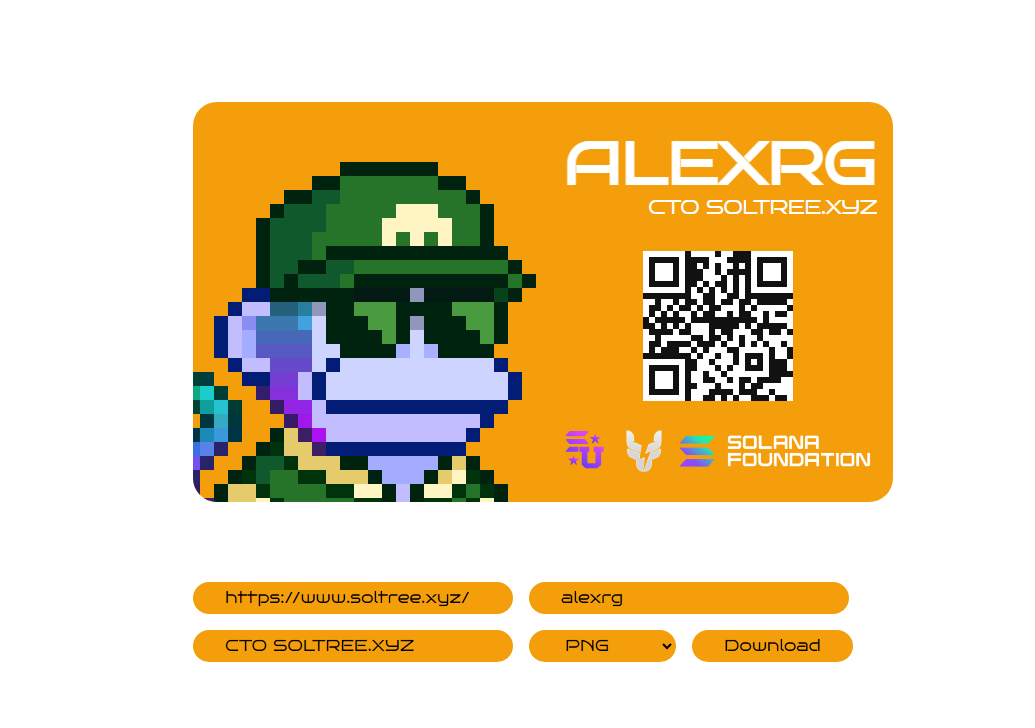
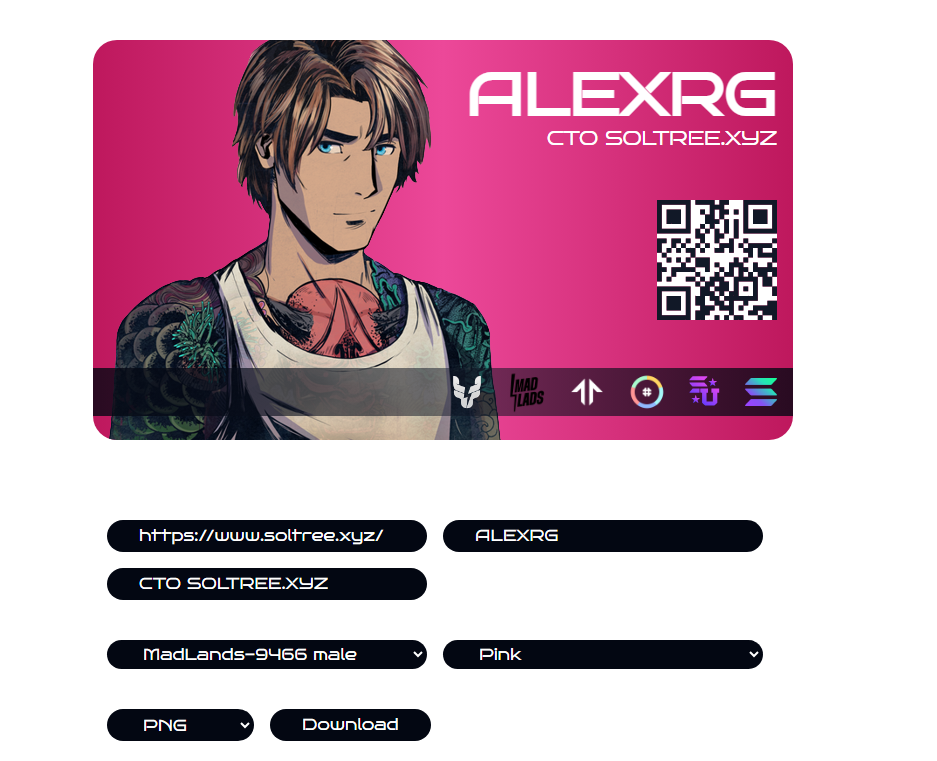
UI updates

diff --git a/src/app/components/QRCode.tsx b/src/app/components/QRCode.tsx
@@ -1,11 +1,10 @@
 "use client";
 import React, { useRef, useState } from "react";
-// import QRCodeStyling from "qr-code-styling";
 import domtoimage from "dom-to-image";
 import QRCode from "react-qr-code";
 
-const MAX_NAME_LENGTH = 10;
-const MAX_INFO_LENGTH = 30;
+const MAX_NAME_LENGTH = 20;
+const MAX_INFO_LENGTH = 40;
 
 const downloadFile = (url: string, filename: string) => {
   const anchorElement = document.createElement("a");
@@ -14,13 +13,21 @@ const downloadFile = (url: string, filename: string) => {
   anchorElement.click();
 };
 
-const App: React.FC = () => {
+function QrCode() {
   const [url, setUrl] = useState("https://www.soltree.xyz/");
   const [fileExt, setFileExt] = useState("png");
-  const [name, setName] = useState("alexrg");
+  const [name, setName] = useState("ALEXRG");
   const [info, setInfo] = useState("CTO SOLTREE.XYZ");
+  const [image, setImage] = useState("ML9466");
+  const [color, setColor] = useState("pink");
   const ref = useRef<HTMLDivElement>(null);
 
+  const onImageChange = (event: { target: { value: string } }) => {
+    setImage(event.target.value);
+  };
+  const onColorChange = (event: { target: { value: string } }) => {
+    setColor(event.target.value);
+  };
   const onExtensionChange = (event: { target: { value: string } }) => {
     setFileExt(event.target.value);
   };
@@ -50,64 +57,139 @@ const App: React.FC = () => {
         });
     }
   };
+  let className = "";
 
+  switch (color) {
+    case "sky":
+      className = "bg-gradient-to-r from-sky-700 via-sky-500 to-sky-700";
+      break;
+    case "cyan":
+      className = "bg-gradient-to-r from-cyan-700 via-cyan-500 to-cyan-700";
+      break;
+    case "pink":
+      className = "bg-gradient-to-r from-pink-700 via-pink-500 to-pink-700";
+      break;
+    case "rose":
+      className = "bg-gradient-to-r from-rose-700 via-rose-500 to-rose-700";
+      break;
+    case "amber":
+      className = "bg-gradient-to-r from-amber-700 via-amber-500 to-amber-700";
+      break;
+    case "yellow":
+      className =
+        "bg-gradient-to-r from-yellow-700 via-yellow-500 to-yellow-700";
+      break;
+    case "lime":
+      className = "bg-gradient-to-r from-lime-700 via-lime-500 to-lime-700";
+      break;
+    case "gray":
+      className = "bg-gradient-to-r from-gray-700 via-gray-500 to-gray-700";
+      break;
+    case "black":
+      className = "bg-gradient-to-r from-gray-950 via-gray-900 to-gray-950";
+      break;
+    // Add more cases for additional colors
+    default:
+      className = "";
+      break;
+  }
   return (
-    <div>
+    <div className="w-full justify-center flex flex-col items-center">
       {/* Card */}
       <div
-        className="bg-amber-500 flex w-[700px] items-end uppercase justify-around rounded-3xl h-[400px] "
+        className={`${className} w-[700px] uppercase rounded-3xl h-[400px] flex items-start justify-start relative group overflow-hidden`}
         ref={ref}
       >
-        <div className="w-1/2 h-full bg-[url(/3.png)] bg-center rounded-l-3xl"></div>
-        <div className="flex flex-col justify-around h-full p-4 text-end w-1/2 items-end">
-          <div className="w-full flex flex-col">
-            <div className="overflow-hidden">
-              <span className="text-6xl font-[600]">{name}</span>
-            </div>
-            <span className="tracking-tight text-xl">{info}</span>
+        <div className={`w-2/3 h-full absolute flex justify-center items-end`}>
+          <img src={`/profile/${image}.png`} className=" " />
+        </div>
+        <div className="flex relative  flex-col w-full justify-around h-full text-end items-end">
+          <div className="ml-auto w-2/3 flex flex-col px-4 tracking-tight">
+            <span className="text-6xl font-[600]">{name}</span>
+            <span className="text-xl">{info}</span>
           </div>
-          <div className="mx-auto">
-            <QRCode
-              value={url}
-              size={150}
-              bgColor="#111111"
-              fgColor="#FFFFFF"
-              level="L"
-            />
-          </div>
-          <div className="w-full flex items-center justify-center h-10">
-            <img src="logo_su.svg" className="h-14" />
-            <img src="logoSmoll.png" className="h-14 mr-2" />
-            <img src="SFLogo.png" className="h-8" />
+          <QRCode
+            value={url}
+            size={120}
+            bgColor="#ffffff"
+            fgColor="rgb(17 24 39)"
+            level="L"
+            className="mx-4"
+          />
+
+          <div className="w-full flex gap-4 items-center justify-end h-12 px-4 py-0.5 bg-gradient-to-r from-gray-950/80 via-gray-900/50 to-gray-950/80">
+            <img src="logoSmoll.png" className="h-full" />
+            <img src="MD.png" className="h-full" />
+            <img src="tenzon.png" className="h-full" />
+            <img src="LILYlogo.png" className="h-full" />
+            <img src="logo_su.svg" className=" h-full" />
+            <img src="SMark.png" className="h-7" />
           </div>
         </div>
-      </div>
-
-      <div className="flex justify-start gap-4 mt-20 w-full max-w-3xl flex-wrap">
+      </div>{" "}
+      <div className="flex justify-start gap-4 max-w-2xl mt-20 w-full  flex-wrap">
         <input
           type="text"
           value={url}
           onChange={handleLinkChange}
-          className="bg-amber-500 text-black rounded-full px-8 w-fit py-1"
+          className="bg-gray-950 text-white rounded-full px-8 w-fit py-1"
         />
         <input
           type="text"
           value={name}
           onChange={handleNameChange}
           maxLength={MAX_NAME_LENGTH}
-          className="bg-amber-500 text-black rounded-full px-8 w-fit py-1"
+          className="bg-gray-950 text-white rounded-full px-8 w-fit py-1"
         />
         <input
           type="text"
           value={info}
           onChange={handleInfoChange}
           maxLength={MAX_INFO_LENGTH}
-          className="bg-amber-500 text-black rounded-full px-8 w-fit py-1"
+          className="bg-gray-950 text-white rounded-full px-8 w-fit py-1"
         />
+      </div>
+      <div className="flex justify-start gap-4 max-w-2xl my-10 w-full  flex-wrap">
+        {" "}
+        <select
+          value={image}
+          onChange={onImageChange}
+          className="bg-gray-950 text-white rounded-full px-8 w-80 py-1"
+        >
+          <option value="ML2138">MadLands-2138 female</option>{" "}
+          <option value="ML2450">MadLands-2450 female</option>
+          <option value="ML3081">MadLands-3081 female</option>
+          <option value="ML6438">MadLands-6438 female</option>
+          <option value="ML2385">MadLands-2385 male</option>
+          <option value="ML7021">MadLands-7021 male</option>
+          <option value="ML7607">MadLands-7607 male</option>
+          <option value="ML9466">MadLands-9466 male</option>
+          <option value="LILY4097">Lily-4097 female</option>
+          <option value="LILY5884">Lily-5884 male</option>
+        </select>
+        <select
+          value={color}
+          onChange={onColorChange}
+          className={`bg-gray-950 text-white rounded-full px-8 w-80 py-1`}
+        >
+          {" "}
+          <option value="pink">Pink</option>
+          <option value="amber">Orange</option>
+          <option value="yellow">Yellow</option>
+          <option value="lime">Lime</option>
+          <option value="rose">Rose</option>
+          <option value="sky">Sky</option>
+          <option value="cyan">Cyan</option>
+          <option value="gray">Gray</option>
+          <option value="black">Black</option>
+        </select>
+      </div>
+      <div className="flex justify-start gap-4 max-w-2xl w-full flex-wrap">
+        {" "}
         <select
           value={fileExt}
           onChange={onExtensionChange}
-          className="bg-amber-500 text-black rounded-full px-8 w-fit py-1 flex justify-center"
+          className="bg-gray-950 text-white rounded-full px-8 w-fit py-1 flex justify-center"
         >
           <option value="png">PNG</option>
           <option value="jpeg">JPEG</option>
@@ -115,13 +197,13 @@ const App: React.FC = () => {
         </select>
         <button
           onClick={onDownloadClick}
-          className="bg-amber-500 text-black rounded-full px-8 w-fit py-1"
+          className="bg-gray-950 text-white rounded-full px-8 w-fit py-1"
         >
           Download
         </button>
       </div>
     </div>
   );
-};
+}
 
-export default App;
+export default QrCode;

diff --git a/src/app/layout.tsx b/src/app/layout.tsx
@@ -15,7 +15,7 @@ const bruno = Bruno_Ace({
 });
 
 const title = "Card Generator";
-const description = "The best Card Generator Ever";
+const description = "The Best Card Generator Ever";
 export const metadata: Metadata = {
   title,
   description,
@@ -37,7 +37,7 @@ export default function RootLayout({
   children: React.ReactNode;
 }) {
   return (
-    <html lang="en">
+    <html lang="en" className="bg-white">
       <body className={bruno.className}>{children}</body>
     </html>
   );

diff --git a/src/app/page.tsx b/src/app/page.tsx
@@ -2,7 +2,7 @@
 import QRCodeComponent from "./components/QRCode";
 export default function Home() {
   return (
-    <main className="flex min-h-screen flex-col items-center justify-center p-24 bg-white">
+    <main className="flex min-h-screen w-full flex-col items-center justify-center bg-white">
       <QRCodeComponent />
     </main>
   );
